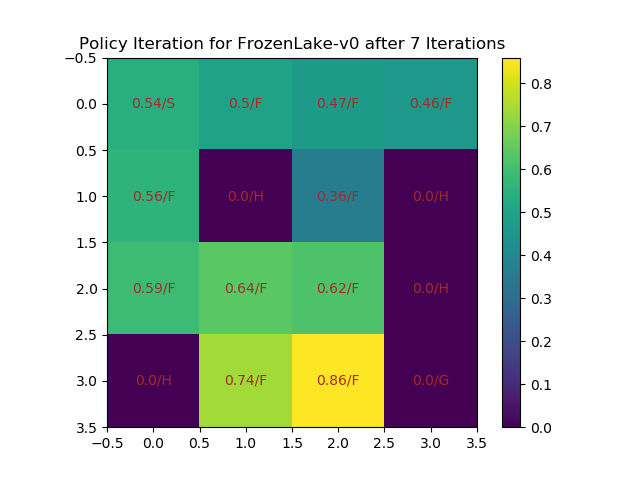
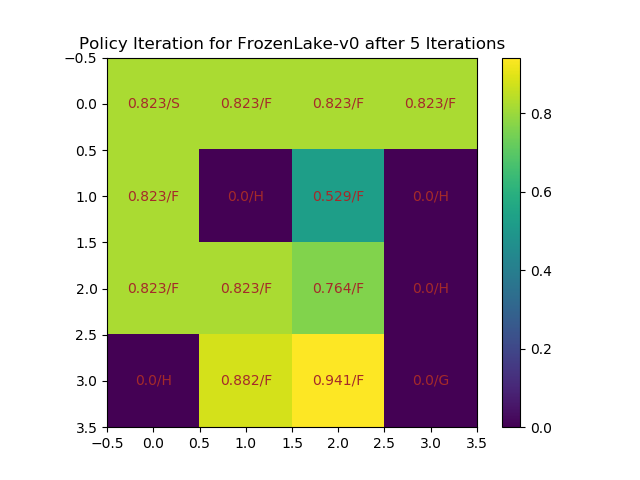
fixed gamma to be 1

diff --git a/dynamic_programming/policy_iteration/policy_iteration.py b/dynamic_programming/policy_iteration/policy_iteration.py
@@ -4,11 +4,14 @@ import numpy.random as npr
 import gym
 import matplotlib.pyplot as plt
 
+np.set_printoptions(formatter={'float': lambda x: "{0:0.3f}".format(x)})
+
+
 def policy_iteration():
     # input: S, A, P, R, gamma
     env = gym.make("FrozenLake-v0")
     S, A = env.observation_space.n, env.action_space.n
-    gamma = 0.99
+    gamma = 1
     V = np.zeros(S)
     pi = npr.randint(A, size=S)
     policy_unstable = True
@@ -47,13 +50,13 @@ def policy_iteration():
 
 
     # plotting
-    vv = np.array([[0.54, 0.50, 0.47, 0.46],[0.56, 0, 0.36, 0],[0.59, 0.64, 0.62, 0],[0, 0.74, 0.86, 0]])
+    vv = V.reshape(4,4)
     state = [['S','F','F','F'],['F','H','F','H'],['F','F','F','H'],['H','F','F','G']]
     plt.imshow(vv)
     plt.colorbar()
     for i in range(4):
         for j in range(4):
-            plt.text(j, i, str(vv[i][j])+'/'+state[i][j], ha="center", va="center", color="brown")
+            plt.text(j, i, str(vv[i][j])[:5]+'/'+state[i][j], ha="center", va="center", color="brown")
     plt.title("Policy Iteration for FrozenLake-v0 after {} Iterations".format(iter_num))
     plt.savefig('policy_iteration.png')
     return V, pi

diff --git a/dynamic_programming/value_iteration/value_iteration.py b/dynamic_programming/value_iteration/value_iteration.py
@@ -8,7 +8,7 @@ def value_iteration():
     # input: S, A, P, R, gamma
     env = gym.make("FrozenLake-v0")
     S, A = env.observation_space.n, env.action_space.n
-    gamma = 0.99
+    gamma = 1
     V = np.zeros(S)
     eps = 1e-8
     iter_num = 0
@@ -40,13 +40,13 @@ def value_iteration():
         pi[s] = Q.argmax()
 
     # plotting
-    vv = np.array([[0.54, 0.50, 0.47, 0.46],[0.56, 0, 0.36, 0],[0.59, 0.64, 0.62, 0],[0, 0.74, 0.86, 0]])
+    vv = V.reshape(4,4)
     state = [['S','F','F','F'],['F','H','F','H'],['F','F','F','H'],['H','F','F','G']]
     plt.imshow(vv)
     plt.colorbar()
     for i in range(4):
         for j in range(4):
-            plt.text(j, i, str(vv[i][j])+'/'+state[i][j], ha="center", va="center", color="brown")
+            plt.text(j, i, str(vv[i][j])[:5]+'/'+state[i][j], ha="center", va="center", color="brown")
     plt.title("Value Iteration for FrozenLake-v0 after {} Iterations".format(iter_num))
     plt.savefig('value_iteration.png')
 
